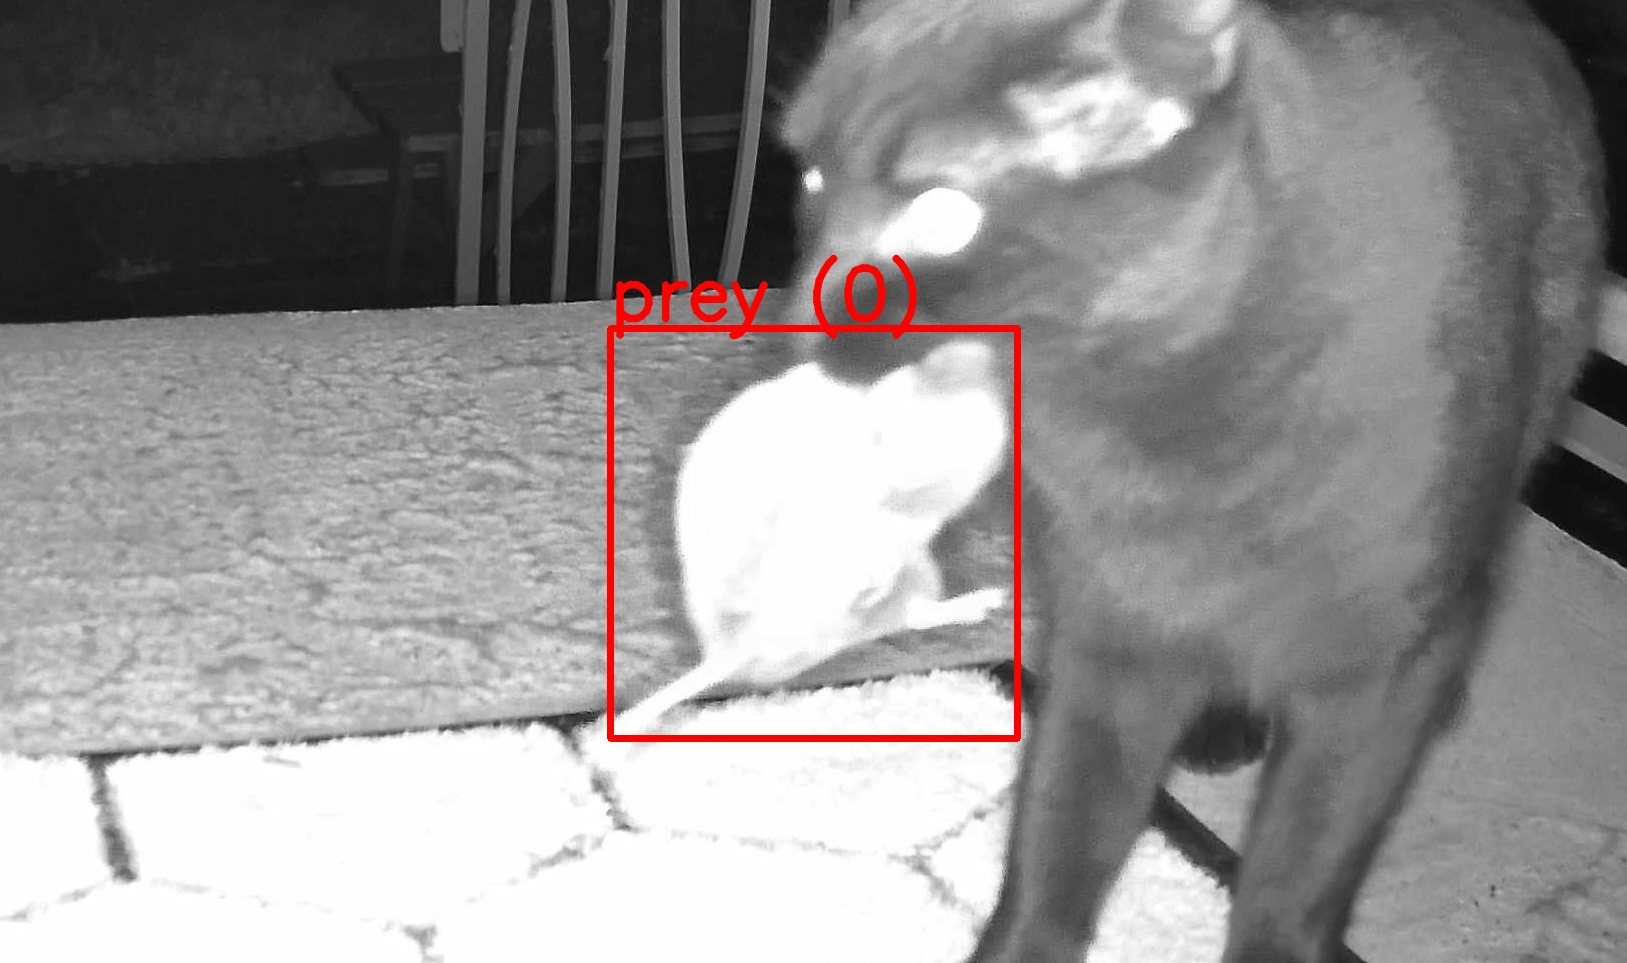
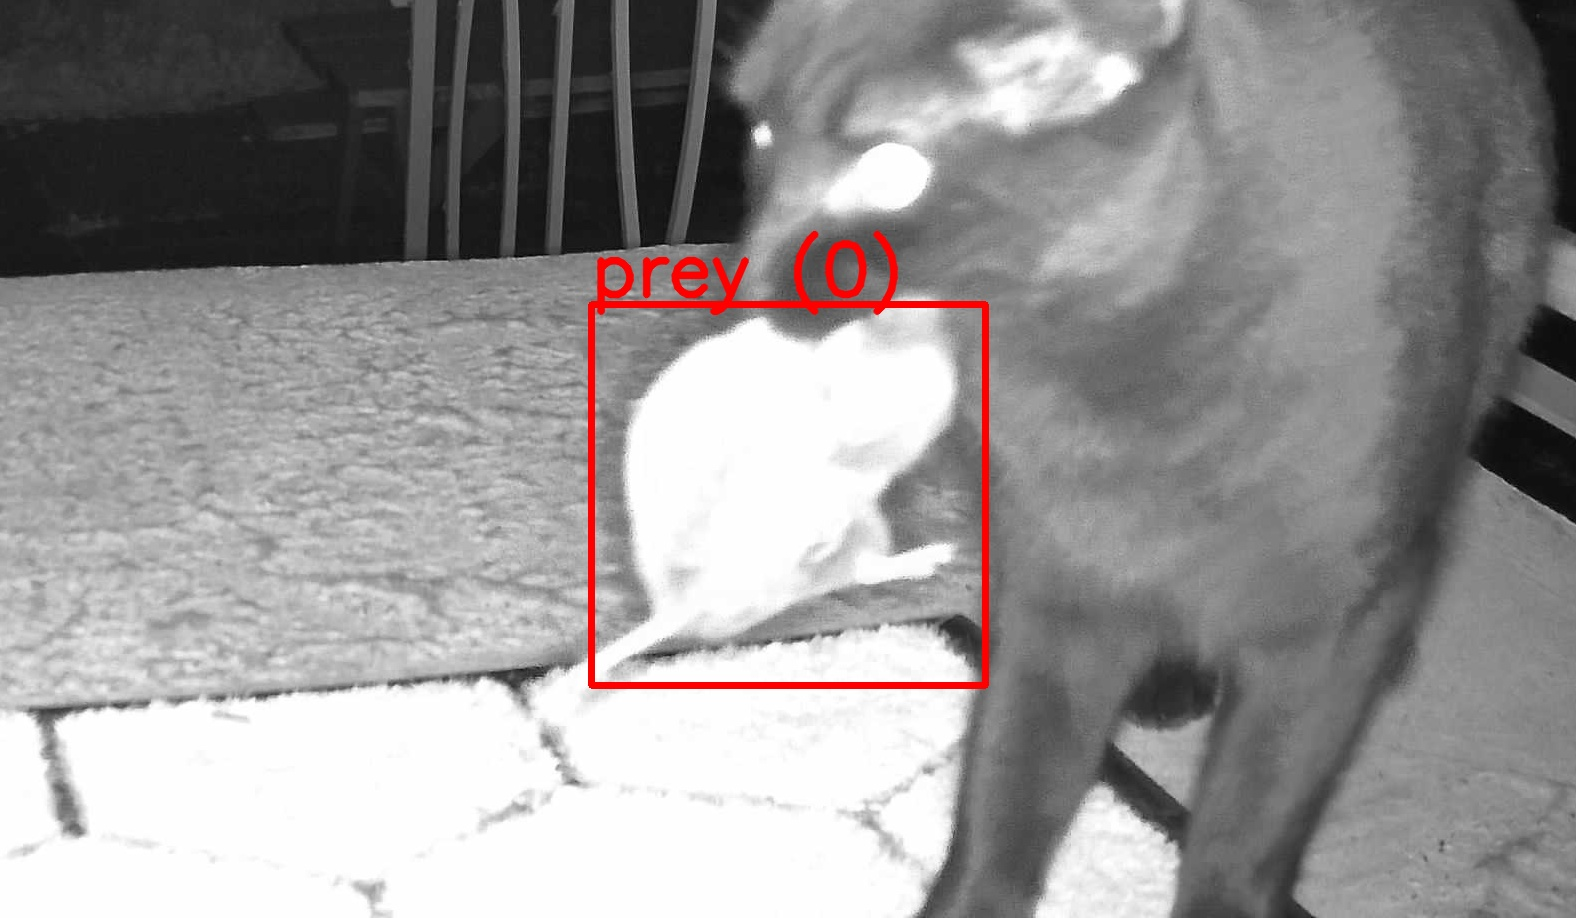
training

diff --git a/training/tune/predict.py b/training/tune/predict.py
@@ -1,0 +1,46 @@
+"""Pre-populate YOLO .txt files for new images using weights/best.pt at low confidence."""
+
+from pathlib import Path
+
+# pylint: disable=import-error
+from ultralytics import YOLO
+
+# pylint: enable=import-error
+
+WEIGHTS = Path("../runs/detect/prey_runs/yolo11_prey/weights/best.pt")
+IMAGES_DIR = Path("images")
+LABELS_DIR = Path("labels")
+IMGSZ = 1280
+CONF_THRESHOLD = 0.20
+OVERWRITE_EXISTING = False  # Set True to re-draft even if a non-empty .txt already exists
+
+model = YOLO(str(WEIGHTS))
+LABELS_DIR.mkdir(parents=True, exist_ok=True)
+
+images = sorted(
+    p for p in IMAGES_DIR.iterdir() if p.suffix.lower() in {".jpg", ".jpeg", ".png"}
+)
+print(f"Found {len(images)} image(s) in {IMAGES_DIR.resolve()}")
+
+for img_path in images:
+    lbl_path = LABELS_DIR / f"{img_path.stem}.txt"
+
+    if not OVERWRITE_EXISTING and lbl_path.exists() and lbl_path.stat().st_size > 0:
+        print(f"Skipping {img_path.name}: non-empty label already exists ({lbl_path.name})")
+        continue
+
+    results = model.predict(
+        source=str(img_path), imgsz=IMGSZ, conf=CONF_THRESHOLD, verbose=False
+    )
+    top = results[0]
+
+    lines = []
+    if top.boxes is not None and len(top.boxes) > 0:
+        for cls_id, box in zip(
+            top.boxes.cls.cpu().numpy().astype(int), top.boxes.xywhn.cpu().numpy()
+        ):
+            xc, yc, bw, bh = box
+            lines.append(f"{cls_id} {xc:.6f} {yc:.6f} {bw:.6f} {bh:.6f}")
+
+    lbl_path.write_text("\n".join(lines) + ("\n" if lines else ""), encoding="utf-8")
+    print(f"{img_path.name}: drafted {len(lines)} box(es) -> {lbl_path.name}")

diff --git a/training/tune/tune.py b/training/tune/tune.py
@@ -5,7 +5,10 @@ from datetime import datetime, timezone
 from pathlib import Path
 
 import yaml
+# pylint: disable=import-error
 from ultralytics import YOLO
+
+# pylint: enable=import-error
 
 BASE_WEIGHTS = Path("../runs/detect/prey_runs/yolo11_prey/weights/best.pt")
 OPENVINO_OUT_DIR = Path(
@@ -37,7 +40,8 @@ def validate_dataset(dataset_dir: Path, yaml_path: Path) -> None:
     for img_path in images:
         lbl_path = labels_dir / f"{img_path.stem}.txt"
         if not lbl_path.exists():
-            # Create empty 0-byte label file so Ultralytics explicitly treats it as a background sample
+            # Create empty 0-byte label file so Ultralytics explicitly treats it
+            # as a background sample
             lbl_path.write_text("", encoding="utf-8")
             negatives += 1
         elif lbl_path.read_text(encoding="utf-8").strip():
@@ -77,6 +81,7 @@ def backup_existing_weights(weights_path: Path) -> None:
 
 
 def main() -> None:
+    """main"""
     if not BASE_WEIGHTS.exists():
         raise FileNotFoundError(f"Base weights not found at {BASE_WEIGHTS}")
 
@@ -121,7 +126,7 @@ def main() -> None:
             half=False,
         )
     )
-    print(f"Exported OpenVINO model -> {OPENVINO_OUT_DIR.resolve()}")
+    print(f"Exported OpenVINO model -> {exported_dir.resolve()}")
 
 
 if __name__ == "__main__":

diff --git a/training/README.md b/training/README.md
@@ -33,7 +33,7 @@
 	python train.py
 
 ## tuning
-> [scp-uuid] in your own training images, manually generate labels, verify and fine tune the
+> [scp-uuid] in your own training images, generate draft labels, verify and fine tune the
   base model
 
     cd tune
@@ -44,7 +44,10 @@
     # beware overwriting manually generated labels
     scp-uuid -r {{uuid}}.balena:/mnt/data/docker/volumes/{{volume-id}}_resin-data/_data/labels tune/
 
-    # manually generate labels (prey coordinates in image) and verify
+    # generate draft labels (prey coordinates in image)
+    python predict.py
+
+    # .. and verify
     python verify.py
 
     # fine tune the base weights
